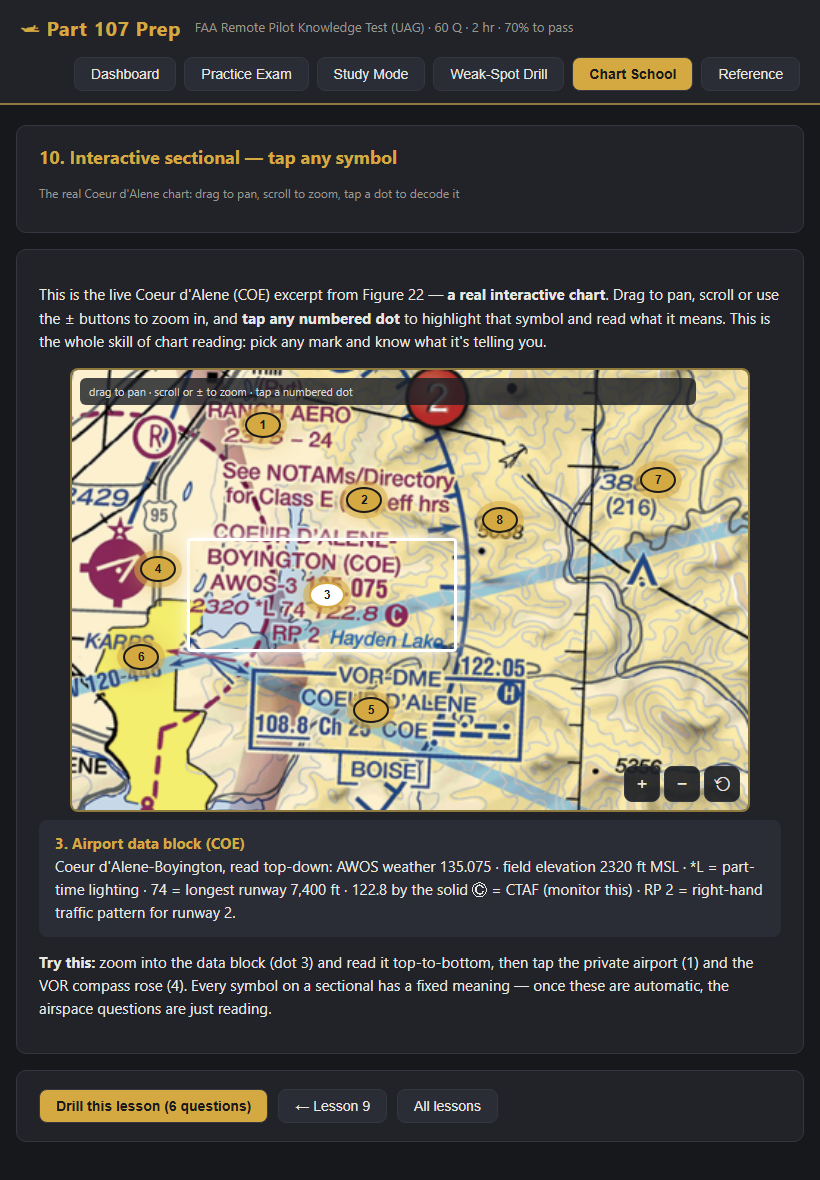
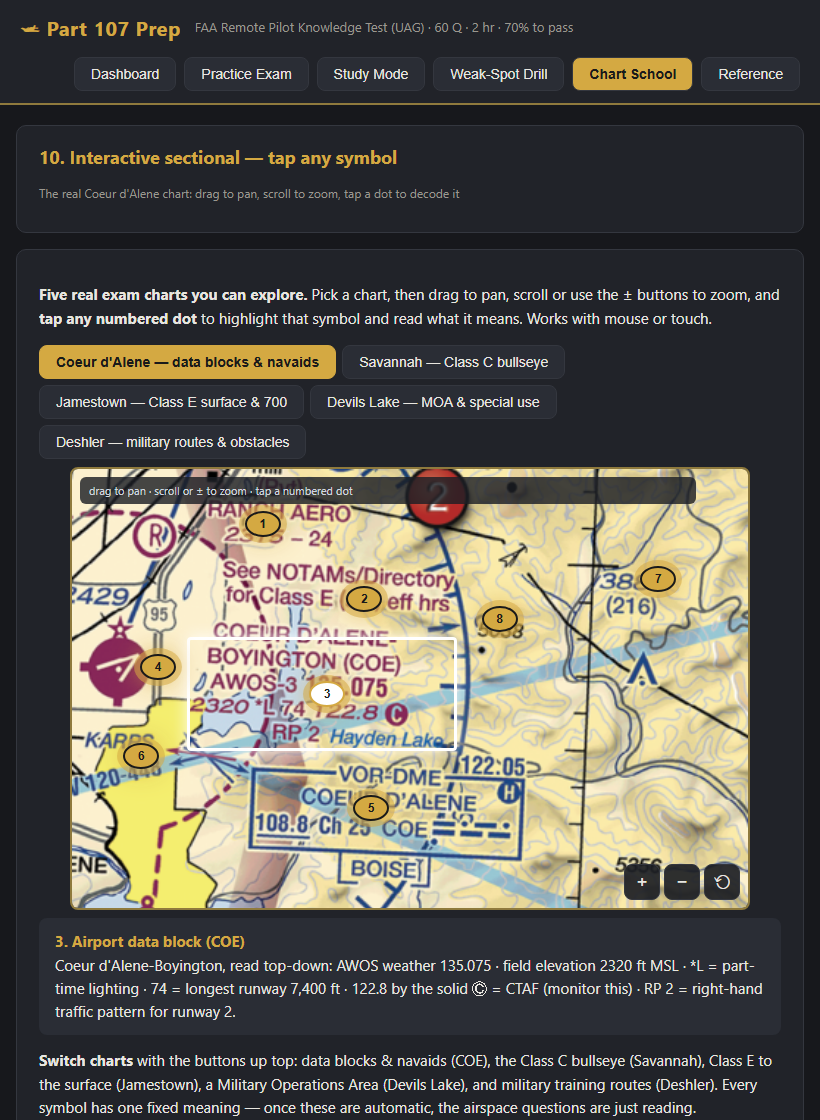
Expand interactive charts to 5, add full METAR/TAF walkthrough + glossary
- Interactive sectional now has a chart picker with 5 real exam charts: COE (data
  blocks/navaids), Savannah Class C, Jamestown (Class E surface + 700 vignette),
  Devils Lake MOA, and Deshler military routes — 30 tappable hotspots total, each
  authored against a percentage grid and screenshot-verified.
- Corrected an airspace error: Jamestown is Class E to the surface (non-towered),
  not Class D — fixed the hotspots, picker label, and the airspace-stack caption
  after zooming the real chart to confirm (brown E vignette + dashed-magenta surface
  E + blue VOR compass rose, no dashed-blue Class D).
- METAR lesson rebuilt as a full walkthrough: 9-slot read-in-order table plus a
  complete glossary (wind, weather intensity/descriptor/phenomena, sky cover,
  remarks) and a TAF change-group table. Verified 1800wxbrief.com and the 2021
  night/recurrent rules against FAA sources.
- Adds ?exchart=N deep-link and .mappicker styling.

diff --git a/charts.js b/charts.js
@@ -89,7 +89,7 @@ window.LESSONS = [
   <li><b>Dashed blue</b> = Class D · <b>Dashed magenta</b> = Class E starting at the SURFACE → authorization. The dashed magenta line is the most-missed symbol on the exam — it looks harmless and isn't.</li>
   <li><b>Faded magenta band (vignette)</b> = Class E starts at 700 AGL. You fly under it in Class G — no authorization. Same for areas with no marking (E at 1,200 AGL).</li>
 </ul>
-${spot("spot_jamestown", "Real chart (Fig 26, Jamestown): DASHED BLUE ring = Class D around the airport; the DASHED MAGENTA shape around it = Class E surface extensions. Both need authorization at any altitude.")}
+${spot("spot_jamestown", "Real chart (Fig 26, Jamestown): the DASHED MAGENTA line = Class E starting at the SURFACE — authorization required, and the symbol pilots miss most. The soft brown band is Class E at 700 AGL (you fly under it in Class G at 400 ft). Jamestown has no tower, so no Class D here.")}
 `},
 
 /* ------------------------------------------------ 2 · Data blocks */
@@ -342,23 +342,73 @@ ${spot("spot_garrison", "Fig 21: Garrison sits just south of the 48°N line — 
 ${spot("spot_cooperstown", "Fig 26: Cooperstown — a magenta (non-towered) field where the exam plays out. RWY 13/31 runs NW-SE; left downwind for 13 puts traffic northeast of the field.")}
 `},
 
-/* ------------------------------------------------ 8 · METAR decoder */
+/* ------------------------------------------------ 8 · METAR & TAF walkthrough + glossary */
 {
-  title: "METAR decoder (interactive)",
-  tagline: "Click each chunk of the raw text — the exam shows you exactly this",
+  title: "METAR & TAF — full walkthrough + glossary",
+  tagline: "Decode any weather report cold: tap each chunk, read it in order, look up every code",
   drill: ["faa-25","faa-26","wx-10","wx-18","wx-11"],
   html: `
-<p>This is Chicago Midway from the exam's Figure 12 (question 25). <b>Click each token:</b></p>
+<p><b>1 · Tap-to-decode.</b> This is Chicago Midway (the exam's Figure 12). Click any chunk to see what it means:</p>
 <div class="metar" id="metarline"></div>
 <div class="feedback" id="metarExplain" style="display:none"></div>
-<p style="margin-top:18px"><b>The three traps the exam sets:</b></p>
+
+<h3>2 · Read it in order — every METAR follows the same 9 slots</h3>
+<div style="overflow-x:auto"><table>
+<tr><th>#</th><th>Slot</th><th>Example</th><th>What it means</th></tr>
+<tr><td>1</td><td>Report type</td><td><code>METAR</code></td><td>Routine hourly ob. <code>SPECI</code> = special (issued when something changed fast).</td></tr>
+<tr><td>2</td><td>Station</td><td><code>KMDW</code></td><td>ICAO id. In the lower 48 it's <b>K</b> + the 3-letter airport code.</td></tr>
+<tr><td>3</td><td>Date/time</td><td><code>121856Z</code></td><td>Day 12, 1856 <b>Zulu (UTC)</b> — always Zulu. Convert to local yourself.</td></tr>
+<tr><td>4</td><td>Wind</td><td><code>32005KT</code></td><td>FROM 320° <b>true</b> at 5 kt. <code>G</code> adds gusts; <code>VRB</code> = variable; <code>00000KT</code> = calm.</td></tr>
+<tr><td>5</td><td>Visibility</td><td><code>1 1/2SM</code></td><td>1½ <b>statute</b> miles. <code>10SM</code> = 10+; <code>M1/4SM</code> = less than ¼.</td></tr>
+<tr><td>6</td><td>Weather</td><td><code>RA</code></td><td>Present weather (rain). Built from intensity + descriptor + phenomenon — see glossary.</td></tr>
+<tr><td>7</td><td>Sky cover</td><td><code>OVC007</code></td><td>Overcast at <b>700 ft AGL</b> (heights in hundreds of feet). Ceiling = lowest BKN/OVC.</td></tr>
+<tr><td>8</td><td>Temp/dewpoint</td><td><code>17/16</code></td><td>17°C / dewpoint 16°C. <code>M</code> = minus (<code>M06</code> = -6°C). 1° spread ⇒ fog likely.</td></tr>
+<tr><td>9</td><td>Altimeter</td><td><code>A2980</code></td><td>29.80 inHg (decimal implied). A <code>RMK</code> section may follow.</td></tr>
+</table></div>
+
+<h3>3 · Glossary — look up any code</h3>
+<p><b>Wind</b></p>
+<div style="overflow-x:auto"><table>
+<tr><td><code>32005KT</code></td><td>from 320° true, 5 kt</td><td><code>32015G25KT</code></td><td>320°, 15 kt gusting 25</td></tr>
+<tr><td><code>VRB03KT</code></td><td>variable direction, 3 kt</td><td><code>180V240</code></td><td>direction varying 180°–240°</td></tr>
+<tr><td><code>00000KT</code></td><td>calm</td><td colspan="2">written winds = TRUE north; spoken (ATIS/tower) = magnetic</td></tr>
+</table></div>
+<p><b>Weather = [intensity][descriptor][phenomenon]</b></p>
+<div style="overflow-x:auto"><table>
+<tr><th>Intensity</th><td><code>-</code> light</td><td>(none) moderate</td><td><code>+</code> heavy</td><td><code>VC</code> vicinity</td></tr>
+<tr><th>Descriptor</th><td><code>SH</code> showers</td><td><code>TS</code> t-storm</td><td><code>FZ</code> freezing</td><td><code>MI</code> shallow · <code>BC</code> patchy · <code>BL</code> blowing · <code>DR</code> drifting</td></tr>
+<tr><th>Precip</th><td><code>RA</code> rain · <code>DZ</code> drizzle</td><td><code>SN</code> snow · <code>SG</code> grains</td><td><code>PL</code> ice pellets · <code>GR</code> hail · <code>GS</code> small hail</td><td><code>IC</code> ice crystals · <code>UP</code> unknown</td></tr>
+<tr><th>Obscuration</th><td><code>BR</code> mist (⅝–6 SM)</td><td><code>FG</code> fog (&lt;⅝ SM)</td><td><code>HZ</code> haze · <code>FU</code> smoke</td><td><code>DU/SA</code> dust/sand · <code>VA</code> ash</td></tr>
+<tr><th>Other</th><td><code>PO</code> dust whirls</td><td><code>SQ</code> squall</td><td><code>FC</code> funnel · <code>+FC</code> tornado</td><td><code>SS/DS</code> sand/dust storm</td></tr>
+</table></div>
+<p style="margin-top:6px"><small>Combine them: <code>+TSRA</code> = heavy thunderstorm w/ rain · <code>-SHSN</code> = light snow showers · <code>FZRA</code> = freezing rain (icing!) · <code>VCTS</code> = thunderstorm nearby.</small></p>
+<p><b>Sky cover</b> (eighths of sky = "oktas"; heights in hundreds of ft AGL)</p>
+<div style="overflow-x:auto"><table>
+<tr><td><code>SKC/CLR</code> clear</td><td><code>FEW</code> 1–2/8</td><td><code>SCT</code> 3–4/8</td><td><code>BKN</code> 5–7/8</td><td><code>OVC</code> 8/8</td><td><code>VV004</code> obscured, 400 ft vert vis</td></tr>
+</table></div>
+<p style="margin-top:6px"><small><b>Ceiling</b> = lowest <code>BKN</code> or <code>OVC</code> layer. <code>CB</code>/<code>TCU</code> after a layer = cumulonimbus / towering cumulus — convection, avoid.</small></p>
+<p><b>Remarks (<code>RMK</code>)</b></p>
+<div style="overflow-x:auto"><table>
+<tr><td><code>AO2</code> auto w/ precip sensor (<code>AO1</code> without)</td><td><code>SLP132</code> sea-level press. 1013.2 hPa</td><td><code>RAB35</code> rain began :35 (<code>RAE</code> ended)</td></tr>
+<tr><td><code>PK WND 28045/56</code> peak wind 280°/45 kt at :56</td><td><code>T01720161</code> precise temp 17.2 / dewpt 16.1</td><td><code>$</code> station needs maintenance</td></tr>
+</table></div>
+
+<h3>4 · TAF — the forecast (same codes + change groups)</h3>
+<p>A <b>TAF</b> forecasts weather within <b>5 SM</b> of the airport, issued 4×/day, valid 24–30 hrs. Validity like <code>1512/1618</code> = the 15th 12Z through the 16th 18Z. Extra keywords:</p>
+<div style="overflow-x:auto"><table>
+<tr><td><code>FM1500</code></td><td><b>From</b> 1500Z — a rapid, lasting change; everything after is the new picture</td></tr>
+<tr><td><code>BECMG 1618</code></td><td><b>Becoming</b> — gradual change over 16Z–18Z</td></tr>
+<tr><td><code>TEMPO 2024</code></td><td><b>Temporary</b> (&lt;1 hr each, on/off) between 20Z–24Z</td></tr>
+<tr><td><code>PROB30</code></td><td>30% <b>probability</b> of the conditions that follow</td></tr>
+</table></div>
+
+<h3>5 · The three traps the exam sets</h3>
 <ul>
-  <li><b>Cloud heights are hundreds of feet AGL:</b> OVC007 = 700 ft, OVC070 = 7,000 ft. Count the digits carefully.</li>
-  <li><b>Written wind is TRUE north</b> (spoken tower/ATIS wind is magnetic): 18004KT = from 180° true at 4 kt — don't split it as 040° at 18.</li>
-  <li><b>No sign on RA means moderate:</b> -RA light, RA moderate, +RA heavy. 'Rain' alone in an answer = moderate rain.</li>
+  <li><b>Cloud heights are hundreds of feet AGL:</b> <code>OVC007</code> = 700 ft, <code>OVC070</code> = 7,000 ft. Count the digits.</li>
+  <li><b>Written wind is TRUE north</b> (spoken tower/ATIS is magnetic): <code>18004KT</code> = from 180° true at 4 kt — not 040° at 18.</li>
+  <li><b>No sign = moderate:</b> <code>-RA</code> light, <code>RA</code> moderate, <code>+RA</code> heavy. "Rain" alone in an answer = moderate.</li>
 </ul>
-<p>A <b>TAF</b> is the same code as a forecast: valid within 5 SM of the airport for 24-30 hours; date/time groups like 0512/0618 = from the 5th 12Z to the 6th 18Z.</p>
-<button class="primary" onclick="showFig(12)">Open the full Figure 12 METAR page</button>
+<button class="primary" onclick="showFig(12)">Open the full Figure 12 (real METAR/TAF page)</button>
 `},
 
 /* ------------------------------------------------ 9 · Chart Detective (guided tour) */
@@ -396,13 +446,13 @@ ${spot("spot_cooperstown", "Fig 26: Cooperstown — a magenta (non-towered) fiel
   tagline: "The real Coeur d'Alene chart: drag to pan, scroll to zoom, tap a dot to decode it",
   drill: ["faa-05","cht-08","cht-09","air-05","cht-06","cht-10"],
   html: `
-<p>This is the live Coeur d'Alene (COE) excerpt from Figure 22 — <b>a real interactive chart</b>. Drag to pan, scroll or use the ± buttons to zoom in, and <b>tap any numbered dot</b> to highlight that symbol and read what it means. This is the whole skill of chart reading: pick any mark and know what it's telling you.</p>
+<p><b>Five real exam charts you can explore.</b> Pick a chart, then drag to pan, scroll or use the ± buttons to zoom, and <b>tap any numbered dot</b> to highlight that symbol and read what it means. Works with mouse or touch.</p>
 <div id="chartexplore"></div>
-<p style="margin-top:14px"><b>Try this:</b> zoom into the data block (dot 3) and read it top-to-bottom, then tap the private airport (1) and the VOR compass rose (4). Every symbol on a sectional has a fixed meaning — once these are automatic, the airspace questions are just reading.</p>
+<p style="margin-top:14px"><b>Switch charts</b> with the buttons up top: data blocks & navaids (COE), the Class C bullseye (Savannah), Class E to the surface (Jamestown), a Military Operations Area (Devils Lake), and military training routes (Deshler). Every symbol has one fixed meaning — once these are automatic, the airspace questions are just reading.</p>
 `,
   explore: {
-    fig: "spot_coe",
-    hotspots: [
+    charts: [
+    { name: "Coeur d'Alene — data blocks & navaids", fig: "spot_coe", hotspots: [
       { x: 10, y: 5, w: 35, h: 15, title: "Private airport — Ranch Aero (Pvt)",
         text: "A magenta airport symbol with the circled 'R' and '(Pvt)' = a PRIVATE field, no public use without permission. It's charted because its low, slow traffic still matters to you. It sits in Class G here, so no airspace authorization is tied to it — but keep eyes out." },
       { x: 24, y: 21, w: 37, h: 17, title: "Class E (sfc) — check the NOTAMs",
@@ -419,6 +469,59 @@ ${spot("spot_cooperstown", "Fig 26: Cooperstown — a magenta (non-towered) fiel
         text: "An obstacle: bold 3888 = the top is 3,888 ft MSL; (216) = 216 ft AGL. The AGL number is yours — 216 ft is under your 400-ft ceiling, but always give towers wide margin (and their unseen guy wires, which are never charted)." },
       { x: 55, y: 28, w: 15, h: 12, title: "Spot elevation — 5038",
         text: "A dot with 5038 marks a spot elevation: the highest terrain at that point, 5,038 ft MSL. Terrain and MEF figures are MSL — over rising ground, subtract the local elevation to know your true height AGL before trusting the 400-ft limit." }
+    ] },
+    { name: "Savannah — Class C bullseye", fig: "spot_savannah", hotspots: [
+      { x: 14, y: 28, w: 50, h: 60, title: "The two magenta rings = Class C",
+        text: "An inner CORE circle over the airport plus an outer SHELF ring, both solid magenta. Inside either ring you need ATC authorization (LAANC)." },
+      { x: 50, y: 11, w: 17, h: 9, title: "'SAVANNAH CLASS C' label",
+        text: "The printed class name. The class sets the rule; the fractions inside give the altitudes." },
+      { x: 15, y: 44, w: 11, h: 14, title: "Shelf fraction 41/13",
+        text: "Ceiling over floor in hundreds of ft MSL: 4,100 MSL top, 1,300 MSL floor. Charted altitudes are MSL unless in parentheses — this is exam Q8." },
+      { x: 24, y: 55, w: 13, h: 13, title: "Core fraction 41/SFC",
+        text: "Over the airport: 4,100 MSL down to the SURFACE. No shelf here — authorization needed from the ground up." },
+      { x: 30, y: 64, w: 13, h: 13, title: "The primary airport (SAV)",
+        text: "Blue airport symbol = towered (Savannah/Hilton Head). Class C exists to protect this busy field's traffic." },
+      { x: 63, y: 69, w: 18, h: 8, title: "CTAF / tower frequency",
+        text: "The frequency by the solid Ⓒ in the data block — monitor it to hear inbound traffic." }
+    ] },
+    { name: "Jamestown — Class E surface & 700", fig: "spot_jamestown", hotspots: [
+      { x: 45, y: 66, w: 17, h: 12, title: "Class E to the SURFACE — dashed MAGENTA",
+        text: "The dashed magenta line = Class E that starts at the SURFACE. It needs ATC authorization just like B/C/D, and it's the symbol drone pilots miss most. Jamestown has no control tower, so it's Class E — not Class D." },
+      { x: 32, y: 79, w: 20, h: 11, title: "Class E floor at 700 AGL — brown vignette",
+        text: "The soft brown gradient band lowers Class E's floor to 700 ft AGL. At 400 ft you're UNDER it, in Class G — no authorization needed. Only the dashed-magenta surface part requires it." },
+      { x: 38, y: 36, w: 36, h: 13, title: "Jamestown Rgnl (JMS) data block",
+        text: "ASOS weather 118.425 · field elevation 1500 ft MSL · *L part-time lighting · 65 = 6,500-ft runway · 123.0 by the Ⓒ = CTAF." },
+      { x: 44, y: 50, w: 13, h: 13, title: "The airport it protects",
+        text: "The field the Class E surface area exists for. Class-E-to-surface wraps non-towered fields that have instrument approaches, so IFR traffic is protected to the ground — monitor the CTAF and get authorization for the surface area." },
+      { x: 1, y: 72, w: 38, h: 15, title: "Jamestown VOR-DME navaid box",
+        text: "The navaid ident box: name, frequency, channel 92, Morse ident 'JMS'. The blue tick-marked compass rose on the chart is centered on it — IFR traffic tracks along its radials." },
+      { x: 79, y: 8, w: 19, h: 13, title: "Private airport (Pvt)",
+        text: "Mutschler (Pvt) with a circled R = private, permission-only. Charted for its low traffic; sits in Class G." }
+    ] },
+    { name: "Devils Lake — MOA & special use", fig: "spot_moa", hotspots: [
+      { x: 13, y: 22, w: 11, h: 22, title: "MOA boundary — magenta HATCHED line",
+        text: "A magenta line with hatching on the inside marks Special-Use Airspace — here a Military Operations Area. VFR/drone flight isn't barred, but expect fast military traffic." },
+      { x: 30, y: 52, w: 40, h: 11, title: "'DEVILS LAKE WEST MOA' label",
+        text: "The MOA's name. Its active hours, altitudes, and controlling agency live in the chart's Special-Use Airspace panel (the legend) — check status before flying." },
+      { x: 24, y: 40, w: 20, h: 13, title: "Military Training Route IR644-649",
+        text: "A gray line with an IR number = an Instrument military training route crossing the MOA. Military jets, often low and fast." },
+      { x: 42, y: 72, w: 16, h: 13, title: "Obstacle 2361 (260)",
+        text: "Tower: top 2,361 ft MSL; (260) = 260 ft AGL. The AGL number is yours — under 400 ft, but give it margin." },
+      { x: 1, y: 78, w: 22, h: 13, title: "Private airport (Pvt)",
+        text: "OKeefe (Pvt), circled R = private/permission-only. Charted for traffic awareness." }
+    ] },
+    { name: "Deshler — military routes & obstacles", fig: "spot_mtr", hotspots: [
+      { x: 26, y: 24, w: 15, h: 32, title: "Military Training Routes — VR stack",
+        text: "Gray lines labeled VR1667/VR1617/VR1638/VR1668. FOUR-digit VR routes are flown at or BELOW 1,500 ft AGL — your altitude, at 250+ knots. This is exam Q30." },
+      { x: 66, y: 15, w: 28, h: 17, title: "Deshler (6D7) data block",
+        text: "Non-towered field: elevation, lighting, and 122.9 by the Ⓒ = CTAF. The magenta airport symbol confirms there's no control tower." },
+      { x: 70, y: 39, w: 18, h: 12, title: "Tall obstacle 1817 (1090)",
+        text: "Top 1,817 ft MSL, and (1090) = 1,090 ft AGL — WAY above your 400-ft ceiling. Route around towers like this, and mind their unseen guy wires." },
+      { x: 1, y: 45, w: 23, h: 13, title: "Private airport (Pvt)",
+        text: "Hiltner (Pvt), circled R = private. Low traffic, Class G." },
+      { x: 46, y: 80, w: 36, h: 13, title: "Putnam Co (OWX) data block",
+        text: "AWOS 120.525 · field elevation 764 MSL · *L 45 = 4,500-ft runway. Read every data block the same way." }
+    ] }
     ]
   }
 },

diff --git a/index.html b/index.html
@@ -75,6 +75,10 @@
   .lessonstat { font-weight: 700; font-size: 15px; color: var(--dim); }
   .lesson svg { width: 100%; height: auto; background: #1c1e23; border: 1px solid var(--line); border-radius: 8px; margin: 8px 0 14px; }
   .lesson p, .lesson li { font-size: 15px; }
+  .lesson code { font-family: Consolas, monospace; background: #1c1e23; border: 1px solid var(--line); border-radius: 4px; padding: 1px 5px; font-size: 13px; color: #e8c877; white-space: nowrap; }
+  .lesson table td, .lesson table th { vertical-align: top; }
+  .mappicker { display: flex; gap: 6px; flex-wrap: wrap; margin: 4px 0 8px; }
+  .mappicker button.on { background: var(--gold); color: #1a1a1a; font-weight: 700; border-color: var(--gold); }
   .spotrow { display: flex; gap: 14px; flex-wrap: wrap; }
   .spotfig { margin: 10px 0; flex: 1 1 260px; max-width: 460px; }
   .spotfig img { width: 100%; border-radius: 8px; border: 2px solid var(--gold-dim); cursor: zoom-in; display: block; }
@@ -135,14 +139,14 @@
   <button id="figclose">Close (or click outside)</button>
 </div>
 
-<script src="qbank_faa.js?v=9"></script>
-<script src="qbank_charts.js?v=9"></script>
-<script src="qbank_reg.js?v=9"></script>
-<script src="qbank_air.js?v=9"></script>
-<script src="qbank_wx.js?v=9"></script>
-<script src="qbank_load.js?v=9"></script>
-<script src="qbank_ops.js?v=9"></script>
-<script src="charts.js?v=9"></script>
-<script src="app.js?v=9"></script>
+<script src="qbank_faa.js?v=10"></script>
+<script src="qbank_charts.js?v=10"></script>
+<script src="qbank_reg.js?v=10"></script>
+<script src="qbank_air.js?v=10"></script>
+<script src="qbank_wx.js?v=10"></script>
+<script src="qbank_load.js?v=10"></script>
+<script src="qbank_ops.js?v=10"></script>
+<script src="charts.js?v=10"></script>
+<script src="app.js?v=10"></script>
 </body>
 </html>

diff --git a/app.js b/app.js
@@ -478,12 +478,27 @@ function renderLesson(i) {
   window.scrollTo(0, 0);
 }
 
-/* Interactive pan/zoom + tappable sectional */
+/* Interactive pan/zoom + tappable sectional (multi-chart) */
 let exState = null;
 function initExplore(cfg) {
   const host = $("#chartexplore"); if (!host) return;
-  exState = { cfg, s: 1, tx: 0, ty: 0, drag: null };
+  const charts = cfg.charts || [{ name: "Chart", fig: cfg.fig, hotspots: cfg.hotspots }];
+  exState = { charts, ci: 0, cfg: charts[0], s: 1, tx: 0, ty: 0, drag: null };
   host.innerHTML =
+    `<div class="mappicker" id="mappicker">${charts.map((c, i) =>
+        `<button data-c="${i}" class="${i === 0 ? "on" : ""}">${esc(c.name)}</button>`).join("")}</div>
+     <div id="mapstage"></div>`;
+  host.querySelectorAll("#mappicker button").forEach(b =>
+    b.addEventListener("click", () => exSelectChart(Number(b.dataset.c))));
+  const ec = Number(new URLSearchParams(location.search).get("exchart")) || 0;
+  exSelectChart(charts[ec] ? ec : 0);
+}
+function exSelectChart(ci) {
+  exState.ci = ci; exState.cfg = exState.charts[ci];
+  exState.s = 1; exState.tx = 0; exState.ty = 0; exState.drag = null;
+  document.querySelectorAll("#mappicker button").forEach((b, j) => b.classList.toggle("on", j === ci));
+  const cfg = exState.cfg;
+  $("#mapstage").innerHTML =
     `<div class="mapviewport" id="mv">
        <div class="maphint">drag to pan · scroll or ± to zoom · tap a numbered dot</div>
        <div class="mapworld" id="mw">
@@ -500,7 +515,7 @@ function initExplore(cfg) {
      </div>
      <div class="tourcap" id="excap">Tap any numbered symbol on the chart to decode it.</div>`;
   const mv = $("#mv"), mw = $("#mw");
-  host.querySelectorAll(".maphot").forEach(b =>
+  mv.querySelectorAll(".maphot").forEach(b =>
     b.addEventListener("click", (e) => { e.stopPropagation(); exShow(Number(b.dataset.i)); }));
   mv.addEventListener("wheel", (e) => {
     e.preventDefault();

diff --git a/README.md b/README.md
@@ -40,24 +40,24 @@ downloads a JSON backup.
 - **Dashboard**: projected exam score, per-area mastery bars, exam history, and the
   "Why you're failing" diagnosis — points lost per area, trap-pattern detection,
   weakest subtopics, and a study prescription.
-- **Chart School**: 10 visual lessons on reading sectional charts and METARs — airspace
+- **Chart School**: 10 visual lessons on reading sectional charts and weather — airspace
   colors, data blocks, MSL vs AGL, obstacles/MEF, special-use airspace, lat/long
-  plotting, traffic patterns, and an interactive METAR decoder, plus two hands-on chart
-  tools:
+  plotting, traffic patterns, a **full METAR & TAF walkthrough with a code glossary**,
+  plus two hands-on chart tools:
   - **Chart Detective** — an animated guided tour that steps through the real Savannah
     Class C chart one symbol at a time, a pulsing highlight gliding to each feature.
-  - **Interactive sectional** — the real Coeur d'Alene chart you can **drag to pan,
-    scroll/pinch to zoom, and tap any numbered symbol** to highlight and decode it
-    (data block, private airport, VOR compass rose, airway, obstacle, Class E surface
-    boundary…). Works with mouse and touch.
+  - **Interactive sectional** — **five real exam charts** (Coeur d'Alene data blocks,
+    Savannah Class C, Jamestown Class E surface, a Devils Lake MOA, and Deshler military
+    routes) you can **drag to pan, scroll/pinch to zoom, and tap any numbered symbol** to
+    highlight and decode it. Works with mouse and touch.
 
   Lessons use animated diagrams (respecting `prefers-reduced-motion`) plus spotlight
   crops from the real FAA testing-supplement figures, and drill you on the matching
-  questions.
+  questions. Chart facts were cross-checked against FAA sources.
 
-![Interactive sectional: tap a numbered symbol to highlight and decode it](docs/interactive.png)
+![Interactive sectional: pick a chart, then tap a numbered symbol to highlight and decode it](docs/interactive.png)
 
-![Chart School airspace-stack diagram](docs/chartschool.png)
+![METAR & TAF walkthrough with glossary](docs/metar.png)
 - **Figures**: the 8 testing-supplement figures the FAA questions reference
   (sectionals, METAR block, load-factor chart) rendered at 200 DPI in `figures/`,
   shown in a click-to-zoom viewer.